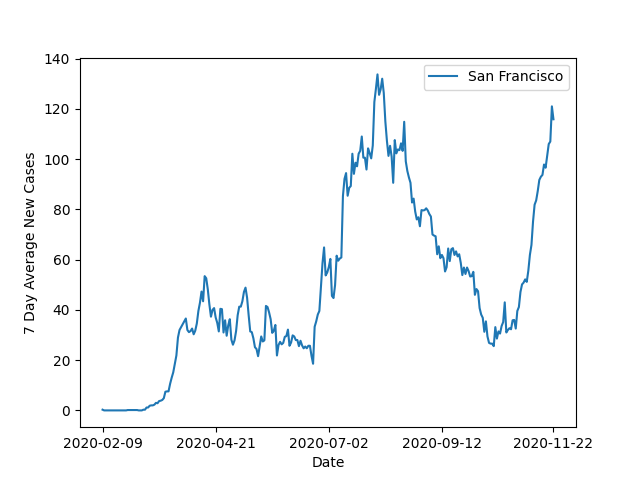
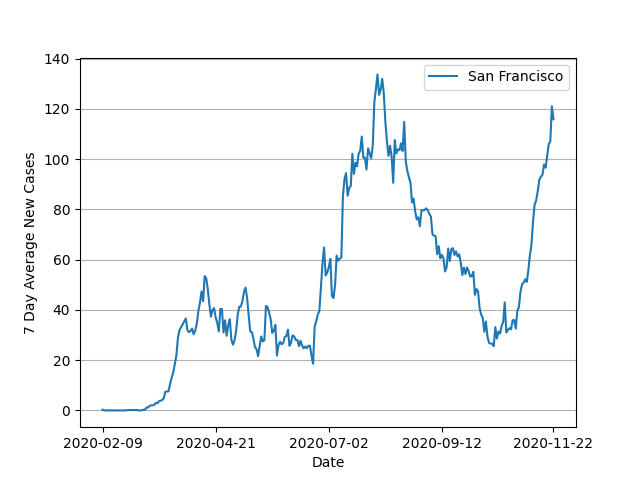
Script improvements

diff --git a/covid.py b/covid.py
@@ -8,8 +8,6 @@ URL = 'https://raw.githubusercontent.com/nytimes/covid-19-data/master/us-countie
 
 GRAPHS = [
   ['San Francisco'],
-  ['San Mateo'],
-  ['Santa Clara'],
   ['San Francisco', 'San Mateo', 'Santa Clara'],
   ['San Francisco', 'San Mateo', 'Santa Clara', 'Los Angeles']
 ]
@@ -56,6 +54,7 @@ for graphCounties in GRAPHS:
   pyplot.xticks(xticks)
   pyplot.xlabel('Date')
   pyplot.ylabel('7 Day Average New Cases')
+  pyplot.grid(axis='y')
 
   filename = PATH + '/' + '_'.join(graphCounties).lower().replace(' ', '_') + '.png'
   pyplot.savefig(filename)
